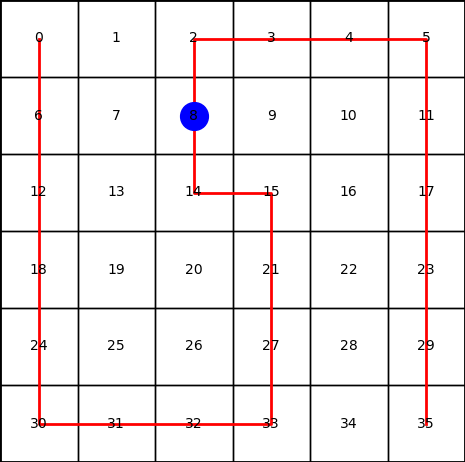
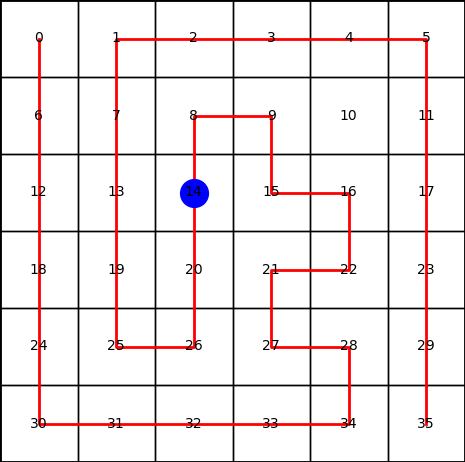
snake to false

Changed region(s): [[0.2409, 0.0606, 0.7527, 0.7576], [0.572, 0.7273, 0.7527, 0.9394]]

diff --git a/src/main.py b/src/main.py
@@ -19,16 +19,17 @@ from algorithms.bidirectional_search import *
 
 
 # Define default input values
+# --date 4_8_24 --number_of_graphs 1 --graph_type grid --size_of_graphs 6 6 --run_uni
 DEFAULT_DATE = "4_8_24"
 DEFAULT_NUMBER_OF_GRAPHS = 1
 DEFAULT_GRAPH_TYPE = "grid" # "grid"  "cube"  "manual"  "maze"
 DEFAULT_SIZE_OF_GRAPHS = [6,6] # dimension of cube
 DEFAULT_HEURISTIC = "bcc_heuristic"  # "heuristic0" / "reachable_heuristic" / "bcc_heuristic" / "mis_heuristic"
-DEFAULT_SNAKE = True
-DEFAULT_RUN_UNI = False
+DEFAULT_SNAKE = False
+DEFAULT_RUN_UNI = True
 DEFAULT_RUN_BI = True
 
-base_dir = ""
+base_dir = "/"
 current_directory = os.getcwd()
 if current_directory.startswith("/cs_storage/"):
     base_dir = "/BiHS/"
